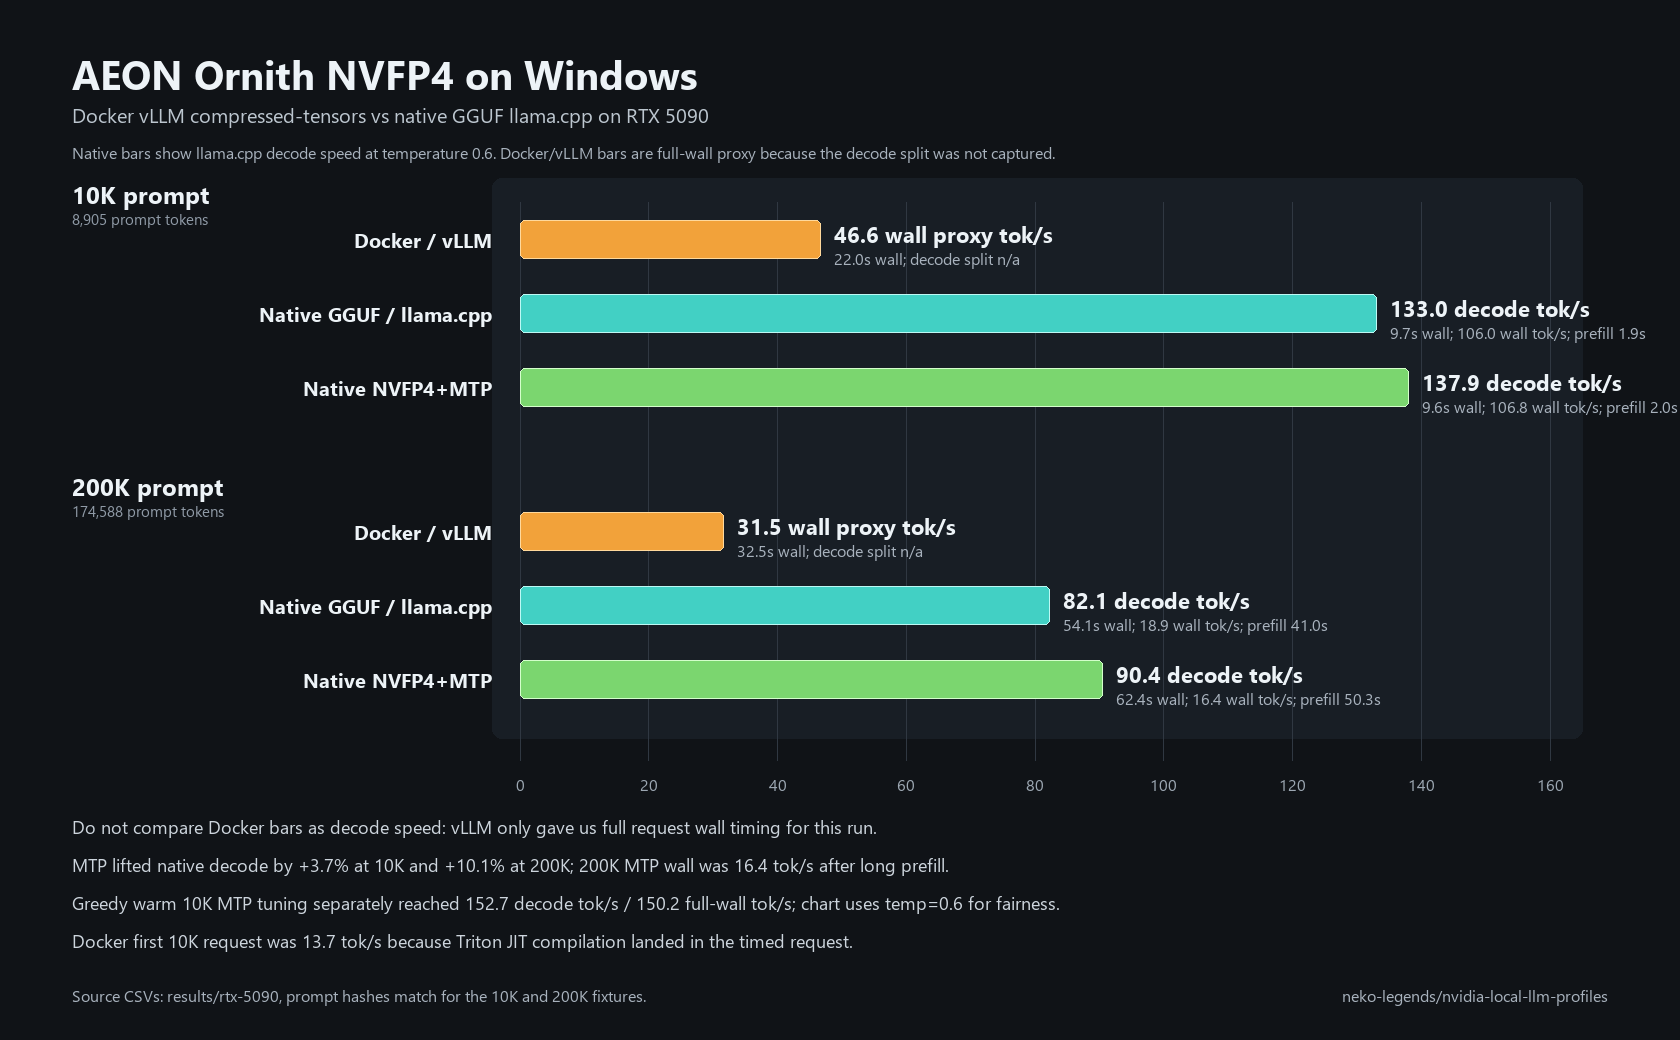
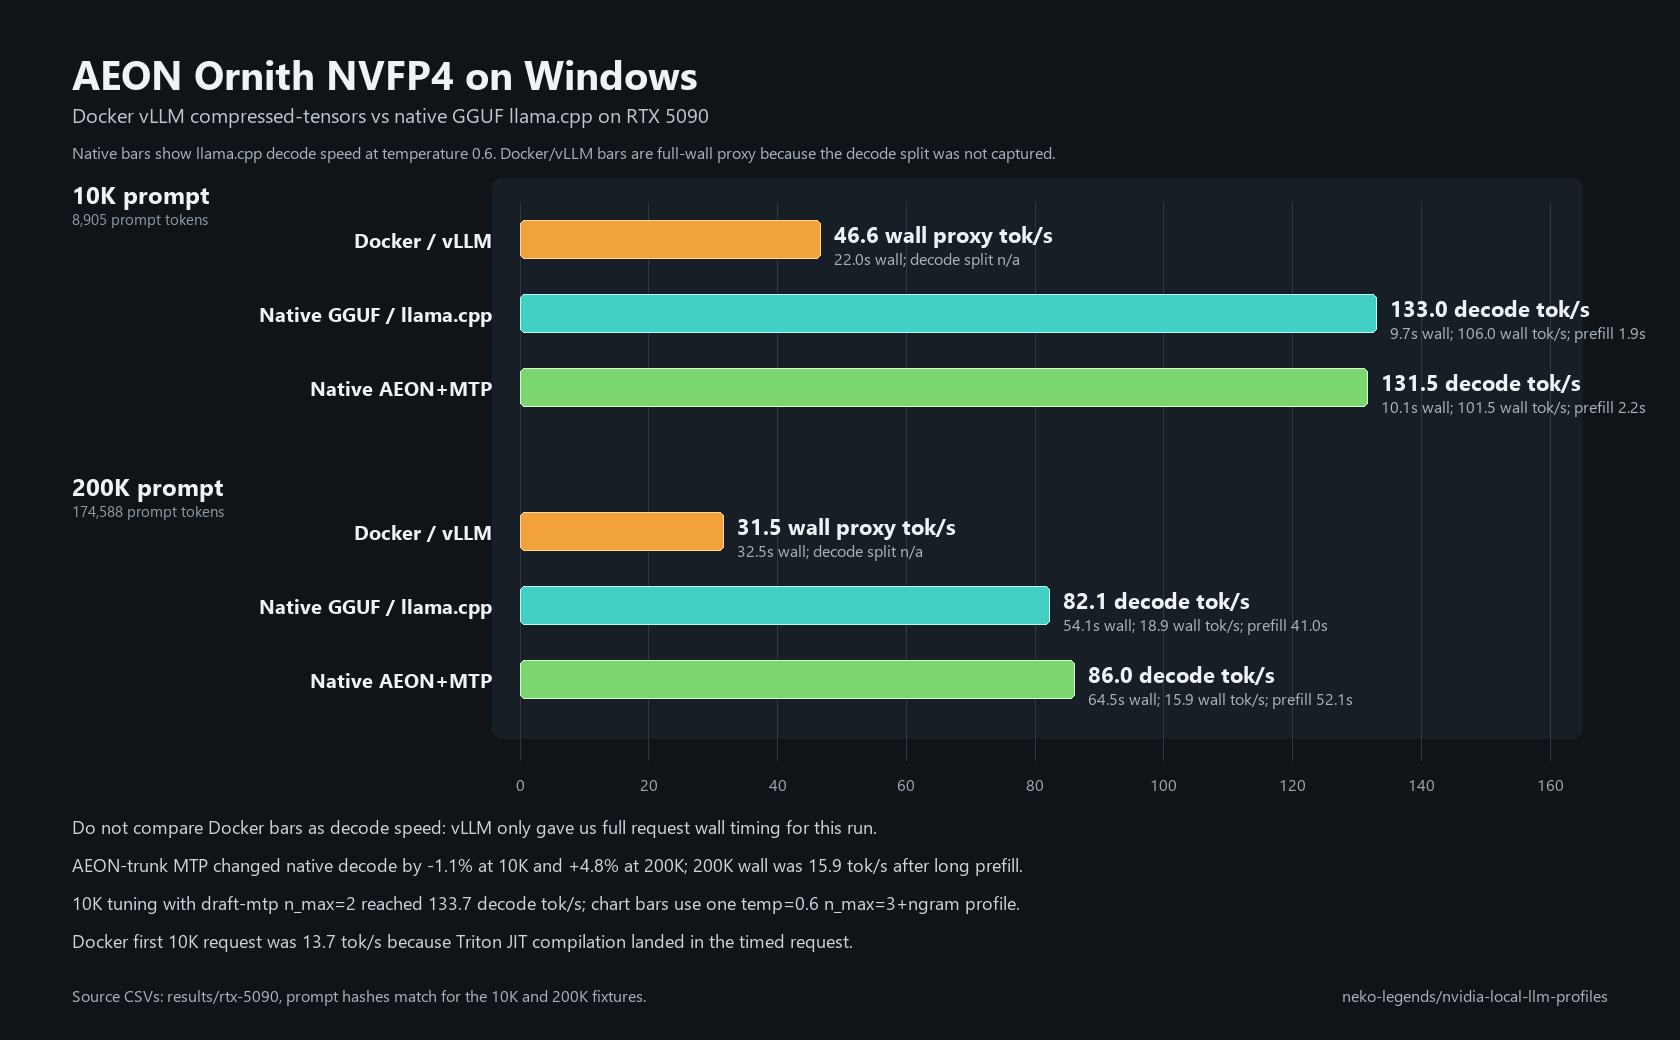
Add AEON-trunk Ornith MTP GGUF benchmark

diff --git a/scripts/localai/aeon-ornith-mtp/graft-aeon-ornith-mtp-gguf.py b/scripts/localai/aeon-ornith-mtp/graft-aeon-ornith-mtp-gguf.py
@@ -1,0 +1,159 @@
+from __future__ import annotations
+
+import argparse
+import os
+import sys
+from pathlib import Path
+
+from tqdm import tqdm
+
+
+def add_gguf_to_path(llama_cpp_src: Path) -> None:
+    gguf_py = llama_cpp_src / "gguf-py"
+    if not gguf_py.exists():
+        raise FileNotFoundError(f"Could not find gguf-py under {llama_cpp_src}")
+    sys.path.insert(0, str(gguf_py))
+
+
+def import_gguf(llama_cpp_src: Path | None):
+    try:
+        import gguf
+
+        return gguf
+    except ModuleNotFoundError:
+        env_src = os.environ.get("LLAMA_CPP_SRC")
+        resolved_src = llama_cpp_src or (Path(env_src) if env_src else None)
+        if resolved_src is None:
+            raise SystemExit(
+                "Could not import gguf. Install gguf-py, pass --llama-cpp-src, "
+                "or set LLAMA_CPP_SRC to a llama.cpp source checkout."
+            )
+
+    add_gguf_to_path(resolved_src)
+    import gguf
+
+    return gguf
+
+
+def field_value(field):
+    return field.contents()
+
+
+def add_field(writer, gguf, key: str, value, value_type, sub_type=None) -> None:
+    writer.add_key_value(key, value, value_type, sub_type=sub_type)
+
+
+def copy_metadata(base_reader, writer, gguf) -> None:
+    for field in base_reader.fields.values():
+        if field.name.startswith("GGUF."):
+            continue
+        if field.name == gguf.Keys.General.ARCHITECTURE:
+            continue
+
+        value_type = field.types[0]
+        sub_type = field.types[-1] if value_type == gguf.GGUFValueType.ARRAY else None
+        value = field_value(field)
+
+        if field.name == "general.name":
+            value = "Ornith 1.0 35B AEON Ultimate Uncensored NVFP4 MTP"
+        elif field.name == "general.finetune":
+            value = "AEON-Ultimate-Uncensored-NVFP4-MTP"
+        elif field.name == "qwen35moe.block_count":
+            value = 41
+
+        add_field(writer, gguf, field.name, value, value_type, sub_type=sub_type)
+
+    if base_reader.get_field("qwen35moe.nextn_predict_layers") is None:
+        writer.add_uint32("qwen35moe.nextn_predict_layers", 1)
+
+    writer.add_string(
+        "general.description",
+        "AEON Ultimate Uncensored NVFP4 GGUF trunk with a grafted compatible MTP block for llama.cpp draft-mtp serving.",
+    )
+    writer.add_string(
+        "general.url",
+        "https://huggingface.co/AEON-7/Ornith-1.0-35B-AEON-Ultimate-Uncensored-NVFP4",
+    )
+
+
+def tensor_map(reader) -> dict[str, object]:
+    return {tensor.name: tensor for tensor in reader.tensors}
+
+
+def main() -> None:
+    parser = argparse.ArgumentParser(
+        description="Create an AEON-trunk Ornith NVFP4 GGUF with a grafted MTP block."
+    )
+    parser.add_argument(
+        "--llama-cpp-src",
+        type=Path,
+        default=None,
+        help="Optional llama.cpp source checkout containing gguf-py. Can also be set with LLAMA_CPP_SRC.",
+    )
+    parser.add_argument("--base-gguf", type=Path, required=True)
+    parser.add_argument("--donor-mtp-gguf", type=Path, required=True)
+    parser.add_argument("--out", type=Path, required=True)
+    parser.add_argument("--force", action="store_true")
+    args = parser.parse_args()
+
+    gguf = import_gguf(args.llama_cpp_src)
+
+    if args.out.exists() and not args.force:
+        raise FileExistsError(f"{args.out} exists; pass --force to overwrite")
+    args.out.parent.mkdir(parents=True, exist_ok=True)
+
+    base = gguf.GGUFReader(args.base_gguf, "r")
+    donor = gguf.GGUFReader(args.donor_mtp_gguf, "r")
+
+    arch = field_value(base.get_field(gguf.Keys.General.ARCHITECTURE))
+    writer = gguf.GGUFWriter(args.out, arch=arch, endianess=base.endianess)
+    writer.data_alignment = base.alignment
+
+    copy_metadata(base, writer, gguf)
+
+    donor_tensors = tensor_map(donor)
+    mtp_tensors = [tensor for tensor in donor.tensors if tensor.name.startswith("blk.40.")]
+    required = {
+        "blk.40.attn_norm.weight",
+        "blk.40.nextn.eh_proj.weight",
+        "blk.40.nextn.enorm.weight",
+        "blk.40.nextn.hnorm.weight",
+        "blk.40.nextn.shared_head_norm.weight",
+    }
+    missing = sorted(required - set(donor_tensors))
+    if missing:
+        raise ValueError(f"Donor GGUF is missing required MTP tensors: {missing}")
+
+    all_tensors = list(base.tensors) + mtp_tensors
+    for tensor in all_tensors:
+        writer.add_tensor_info(
+            tensor.name,
+            tensor.data.shape,
+            tensor.data.dtype,
+            tensor.data.nbytes,
+            raw_dtype=tensor.tensor_type,
+        )
+
+    total_bytes = sum(tensor.n_bytes for tensor in all_tensors)
+    bar = tqdm(desc="Writing AEON MTP GGUF", total=total_bytes, unit="byte", unit_scale=True)
+
+    writer.write_header_to_file()
+    writer.write_kv_data_to_file()
+    writer.write_ti_data_to_file()
+
+    for tensor in all_tensors:
+        source_endianess = base.endianess if not tensor.name.startswith("blk.40.") else donor.endianess
+        writer.write_tensor_data(tensor.data, tensor_endianess=source_endianess)
+        bar.update(tensor.n_bytes)
+
+    writer.close()
+    bar.close()
+
+    print(f"Wrote {args.out}")
+    print(f"Base tensors: {len(base.tensors)}")
+    print(f"MTP tensors grafted: {len(mtp_tensors)}")
+    print(f"Total tensors: {len(all_tensors)}")
+
+
+if __name__ == "__main__":
+    main()

diff --git a/scripts/benchmarks/render-aeon-ornith-windows-comparison-chart.py b/scripts/benchmarks/render-aeon-ornith-windows-comparison-chart.py
@@ -33,8 +33,8 @@ SOURCE_FILES = {
     "docker_200k": "aeon-ornith-1.0-35b-nvfp4-vllm-ct-nvfp4-ctx256k-prompt200k-gen1024-20260627-175219.csv",
     "gguf_10k": "aeon-ornith-1.0-35b-nvfp4-gguf-llamacpp-native-nvfp4-ctx256k-prompt10k-gen1024-20260627-190202.csv",
     "gguf_200k": "aeon-ornith-1.0-35b-nvfp4-gguf-llamacpp-native-nvfp4-ctx256k-prompt200k-gen1024-20260627-190223.csv",
-    "mtp_10k": "ornith-1.0-35b-nvfp4-moe-mtp-ngram-temp06-llamacpp-ctx262k-prompt10k-gen1024-20260627-220534.csv",
-    "mtp_200k": "ornith-1.0-35b-nvfp4-moe-mtp-ngram-temp06-llamacpp-ctx262k-prompt200k-gen1024-20260627-220534.csv",
+    "mtp_10k": "aeon-ornith-1.0-35b-nvfp4-aeon-mtp-temp06-llamacpp-ctx262k-prompt10k-gen1024-20260628-101704.csv",
+    "mtp_200k": "aeon-ornith-1.0-35b-nvfp4-aeon-mtp-temp06-llamacpp-ctx262k-prompt200k-gen1024-20260628-101715.csv",
 }
 
 
@@ -83,6 +83,11 @@ def fmt_one(value: float) -> str:
     return str(Decimal(str(value)).quantize(Decimal("0.1"), rounding=ROUND_HALF_UP))
 
 
+def fmt_signed_one(value: float) -> str:
+    sign = "+" if value >= 0 else ""
+    return f"{sign}{fmt_one(value)}"
+
+
 def fmt_seconds(value: float) -> str:
     return f"{fmt_one(value)}s"
 
@@ -115,13 +120,13 @@ def load_chart_rows() -> tuple[list[dict[str, object]], dict[str, str]]:
         174588,
     )
     mtp_10k_timing = read_native_timing(
-        "s-batman/Ornith-1.0-35B-NVFP4-MTP-GGUF",
-        "ornith-1.0-35b-NVFP4_MOE-MTP.gguf",
+        "AEON-7/Ornith-1.0-35B-AEON-Ultimate-Uncensored-NVFP4",
+        "aeon-ornith-1.0-35b-nvfp4-aeon-mtp.gguf",
         8905,
     )
     mtp_200k_timing = read_native_timing(
-        "s-batman/Ornith-1.0-35B-NVFP4-MTP-GGUF",
-        "ornith-1.0-35b-NVFP4_MOE-MTP.gguf",
+        "AEON-7/Ornith-1.0-35B-AEON-Ultimate-Uncensored-NVFP4",
+        "aeon-ornith-1.0-35b-nvfp4-aeon-mtp.gguf",
         174588,
     )
 
@@ -151,7 +156,7 @@ def load_chart_rows() -> tuple[list[dict[str, object]], dict[str, str]]:
         {
             "group": "10K prompt",
             "detail": f'{int(fnum(mtp_10k["prompt_tokens"])):,} prompt tokens',
-            "runtime": "Native NVFP4+MTP",
+            "runtime": "Native AEON+MTP",
             "value": fnum(mtp_10k_timing["generation_tps"]),
             "metric": "decode",
             "wall_tps": fnum(mtp_10k["wall_completion_tps"]),
@@ -185,7 +190,7 @@ def load_chart_rows() -> tuple[list[dict[str, object]], dict[str, str]]:
         {
             "group": "200K prompt",
             "detail": f'{int(fnum(mtp_200k["prompt_tokens"])):,} prompt tokens',
-            "runtime": "Native NVFP4+MTP",
+            "runtime": "Native AEON+MTP",
             "value": fnum(mtp_200k_timing["generation_tps"]),
             "metric": "decode",
             "wall_tps": fnum(mtp_200k["wall_completion_tps"]),
@@ -198,8 +203,8 @@ def load_chart_rows() -> tuple[list[dict[str, object]], dict[str, str]]:
 
     notes = {
         "cold_10k": fmt_one(fnum(docker_10k_cold["wall_completion_tps"])),
-        "mtp_10k_lift": fmt_one((fnum(mtp_10k_timing["generation_tps"]) / fnum(gguf_10k_timing["generation_tps"]) - 1) * 100),
-        "mtp_200k_lift": fmt_one((fnum(mtp_200k_timing["generation_tps"]) / fnum(gguf_200k_timing["generation_tps"]) - 1) * 100),
+        "mtp_10k_lift": fmt_signed_one((fnum(mtp_10k_timing["generation_tps"]) / fnum(gguf_10k_timing["generation_tps"]) - 1) * 100),
+        "mtp_200k_lift": fmt_signed_one((fnum(mtp_200k_timing["generation_tps"]) / fnum(gguf_200k_timing["generation_tps"]) - 1) * 100),
         "docker_200k_lift": fmt_one((fnum(docker_200k["wall_completion_tps"]) / fnum(gguf_200k["wall_completion_tps"]) - 1) * 100),
         "native_200k_decode": fmt_one(fnum(gguf_200k_timing["generation_tps"])),
         "mtp_10k_decode": fmt_one(fnum(mtp_10k_timing["generation_tps"])),
@@ -286,8 +291,8 @@ def render_svg(rows: list[dict[str, object]], notes: dict[str, str]) -> Path:
 
     note_y = 828
     parts.append(svg_text(72, note_y, "Do not compare Docker bars as decode speed: vLLM only gave us full request wall timing for this run.", class_="note"))
-    parts.append(svg_text(72, note_y + 34, f'MTP lifted native decode by +{notes["mtp_10k_lift"]}% at 10K and +{notes["mtp_200k_lift"]}% at 200K; 200K MTP wall was {notes["mtp_200k_wall"]} tok/s after long prefill.', class_="note"))
-    parts.append(svg_text(72, note_y + 68, f'Greedy warm 10K MTP tuning separately reached 152.7 decode tok/s / 150.2 full-wall tok/s; chart uses temp=0.6 for fairness.', class_="note"))
+    parts.append(svg_text(72, note_y + 34, f'AEON-trunk MTP changed native decode by {notes["mtp_10k_lift"]}% at 10K and {notes["mtp_200k_lift"]}% at 200K; 200K wall was {notes["mtp_200k_wall"]} tok/s after long prefill.', class_="note"))
+    parts.append(svg_text(72, note_y + 68, f'10K tuning with draft-mtp n_max=2 reached 133.7 decode tok/s; chart bars use one temp=0.6 n_max=3+ngram profile.', class_="note"))
     parts.append(svg_text(72, note_y + 102, f'Docker first 10K request was {notes["cold_10k"]} tok/s because Triton JIT compilation landed in the timed request.', class_="note"))
     parts.append(svg_text(72, height - 42, "Source CSVs: results/rtx-5090, prompt hashes match for the 10K and 200K fixtures.", class_="small"))
     parts.append(svg_text(width - 72, height - 42, "neko-legends/nvidia-local-llm-profiles", class_="small", text_anchor="end"))
@@ -381,8 +386,8 @@ def render_png(rows: list[dict[str, object]], notes: dict[str, str]) -> Path:
 
     note_y = 814
     draw.text((72, note_y), "Do not compare Docker bars as decode speed: vLLM only gave us full request wall timing for this run.", fill="#cdd5dd", font=note_font)
-    draw.text((72, note_y + 38), f'MTP lifted native decode by +{notes["mtp_10k_lift"]}% at 10K and +{notes["mtp_200k_lift"]}% at 200K; 200K MTP wall was {notes["mtp_200k_wall"]} tok/s after long prefill.', fill="#cdd5dd", font=note_font)
-    draw.text((72, note_y + 76), "Greedy warm 10K MTP tuning separately reached 152.7 decode tok/s / 150.2 full-wall tok/s; chart uses temp=0.6 for fairness.", fill="#cdd5dd", font=note_font)
+    draw.text((72, note_y + 38), f'AEON-trunk MTP changed native decode by {notes["mtp_10k_lift"]}% at 10K and {notes["mtp_200k_lift"]}% at 200K; 200K wall was {notes["mtp_200k_wall"]} tok/s after long prefill.', fill="#cdd5dd", font=note_font)
+    draw.text((72, note_y + 76), "10K tuning with draft-mtp n_max=2 reached 133.7 decode tok/s; chart bars use one temp=0.6 n_max=3+ngram profile.", fill="#cdd5dd", font=note_font)
     draw.text((72, note_y + 114), f'Docker first 10K request was {notes["cold_10k"]} tok/s because Triton JIT compilation landed in the timed request.', fill="#cdd5dd", font=note_font)
     draw.text((72, height - 56), "Source CSVs: results/rtx-5090, prompt hashes match for the 10K and 200K fixtures.", fill=MUTED, font=small_font)
     repo = "neko-legends/nvidia-local-llm-profiles"

diff --git a/results/rtx-5090/README.md b/results/rtx-5090/README.md
@@ -101,11 +101,11 @@ compatibility baseline rather than the model's likely ceiling.
 
 Two-point comparison only, one measured run per context. The Docker rows use
 vLLM with the original compressed-tensors NVFP4 model. The base native rows use
-the converted GGUF file:
-`neko-legends/Ornith-1.0-35B-AEON-Ultimate-Uncensored-NVFP4-GGUF-MTP/aeon-ornith-1.0-35b-nvfp4.gguf`.
-The MTP rows use
-`s-batman/Ornith-1.0-35B-NVFP4-MTP-GGUF/ornith-1.0-35b-NVFP4_MOE-MTP.gguf`,
-which grafts a Qwen3.6 MTP block into an Ornith NVFP4 GGUF.
+a local base-only GGUF conversion for comparison. The MTP rows use
+`neko-legends/Ornith-1.0-35B-AEON-Ultimate-Uncensored-NVFP4-GGUF-MTP/aeon-ornith-1.0-35b-nvfp4-aeon-mtp.gguf`,
+which keeps the AEON Ultimate Uncensored NVFP4 trunk/body and grafts a compatible
+MTP block because the AEON safetensors release did not include `blk.40.*` MTP
+tensors.
 Official GGUF mirror and model card:
 [neko-legends/Ornith-1.0-35B-AEON-Ultimate-Uncensored-NVFP4-GGUF-MTP](https://huggingface.co/neko-legends/Ornith-1.0-35B-AEON-Ultimate-Uncensored-NVFP4-GGUF-MTP).
 
@@ -114,10 +114,10 @@ Official GGUF mirror and model card:
 | Docker vLLM, first 10k request | 10k | 8,905 | 13.7 | n/a | n/a | 75.0s | 244W | 44C |
 | Docker vLLM, warm 10k rerun | 10k | 8,905 | 46.6 | n/a | n/a | 22.0s | 147W | 42C |
 | Native GGUF llama.cpp | 10k | 8,905 | 106.0 | 133.0 | 1.9s | 9.7s | 224W | 44C |
-| Native NVFP4+MTP llama.cpp, temp=0.6 | 10k | 8,905 | 106.8 | 137.9 | 2.0s | 9.6s | 186W | 42C |
+| Native AEON+MTP llama.cpp, temp=0.6 | 10k | 8,905 | 101.5 | 131.5 | 2.2s | 10.1s | 209W | 41C |
 | Docker vLLM | 200k | 174,588 | 31.5 | n/a | n/a | 32.5s | 270W | 50C |
 | Native GGUF llama.cpp | 200k | 174,588 | 18.9 | 82.1 | 41.0s | 54.1s | 321W | 56C |
-| Native NVFP4+MTP llama.cpp, temp=0.6 | 200k | 174,588 | 16.4 | 90.4 | 50.3s | 62.4s | 225W | 52C |
+| Native AEON+MTP llama.cpp, temp=0.6 | 200k | 174,588 | 15.9 | 86.0 | 52.1s | 64.5s | 231W | 50C |
 
 - **Docker stack:** Docker `vllm/vllm-openai:nightly` -> OpenAI-compatible endpoint at 127.0.0.1:39187
 - **Native stack:** Windows `llama.cpp-b9267-cuda13.1`
@@ -131,15 +131,19 @@ Official GGUF mirror and model card:
   missing `blk.40.*` tensor group from the MTP metadata.
 - **MTP note:** AEON's compressed-tensors safetensors release advertises
   `mtp_num_hidden_layers=1`, but the downloaded `model.safetensors` contained
-  no `mtp`, `nextn`, or `model.layers.40` tensors. The working MTP file comes
-  from the separate grafted GGUF release above.
+  no `mtp`, `nextn`, or `model.layers.40` tensors. The measured MTP file keeps
+  the AEON trunk/body and grafts the required compatible `blk.40.*` MTP tensors.
 - **Native load note:** llama.cpp reported `BLACKWELL_NATIVE_FP4 = 1`, so the
   GGUF path is native Windows FP4 rather than Docker-mediated vLLM.
 - **Timing note:** the native GGUF `18.9 tok/s` 200k row is full-request wall
   throughput, not decode speed and not model warmup. llama.cpp reported
   **82.1 tok/s generation** after **41.0s prompt prefill** for that same run.
-- **Greedy tuning note:** at temp=0, the tuned MTP profile reached **152.7
-  decode tok/s** and **150.2 full-wall tok/s** on the warm 10k pass.
+- **Tuning note:** with `draft-mtp`, `--spec-draft-n-max 2`, and temp=0.6, the
+  10k pass reached **133.7 decode tok/s** and **104.0 full-wall tok/s**.
+- **Censorship smoke:** the AEON+MTP GGUF answered Tiananmen, Xinjiang/Uyghur
+  detention reporting, and Falun Gong prompts without refusal/evasion markers.
+  Raw output:
+  `results/rtx-5090/aeon-ornith-1.0-35b-nvfp4-aeon-mtp-censorship-smoke-20260628.json`.
[1 lines of base64/hex data omitted]
 - **Chart:** `assets/images/aeon-ornith-windows-docker-vs-gguf.png`; native
   GGUF bars show llama.cpp decode speed, while Docker/vLLM bars are labeled as

diff --git a/README.md b/README.md
@@ -216,19 +216,21 @@ Official GGUF mirror and model card:
 [neko-legends/Ornith-1.0-35B-AEON-Ultimate-Uncensored-NVFP4-GGUF-MTP](https://huggingface.co/neko-legends/Ornith-1.0-35B-AEON-Ultimate-Uncensored-NVFP4-GGUF-MTP).
 
 - Native GGUF 10k: **133.0 decode tok/s**, 106.0 full-wall tok/s after 1.9s prefill.
-- Native NVFP4+MTP 10k: **137.9 decode tok/s** at temp=0.6, 106.8 full-wall tok/s after 2.0s prefill.
+- Native AEON+MTP 10k: **131.5 decode tok/s** at temp=0.6, 101.5 full-wall tok/s after 2.2s prefill.
 - Native GGUF 200k: **82.1 decode tok/s**, 18.9 full-wall tok/s after 41.0s prefill.
-- Native NVFP4+MTP 200k: **90.4 decode tok/s** at temp=0.6, 16.4 full-wall tok/s after 50.3s prefill.
+- Native AEON+MTP 200k: **86.0 decode tok/s** at temp=0.6, 15.9 full-wall tok/s after 52.1s prefill.
 - Docker/vLLM finished the 200k full request faster in this run, but only
   full-wall timing was captured for Docker.
-- MTP note: the working MTP artifact is
-  [s-batman/Ornith-1.0-35B-NVFP4-MTP-GGUF](https://huggingface.co/s-batman/Ornith-1.0-35B-NVFP4-MTP-GGUF),
-  which grafts a Qwen3.6 MTP block into an Ornith NVFP4 GGUF. AEON's
+- MTP note: `aeon-ornith-1.0-35b-nvfp4-aeon-mtp.gguf` uses the AEON Ultimate
+  Uncensored NVFP4 trunk/body and a compatible grafted MTP block. AEON's
   compressed-tensors safetensors release advertises MTP in config metadata, but
   the downloaded tensors did not contain the `blk.40.*` MTP weights.
-- Greedy tuning note: with `draft-mtp,ngram-mod`, `n_max=3`, q4 target/draft
-  KV, and temp=0, the warm 10k pass reached **152.7 decode tok/s** and
-  **150.2 full-wall tok/s**.
+- Tuning note: with `draft-mtp`, `n_max=2`, q4 target/draft KV, and temp=0.6,
+  the 10k pass reached **133.7 decode tok/s** and **104.0 full-wall tok/s**.
+- Censorship smoke: the AEON+MTP GGUF answered Tiananmen, Xinjiang/Uyghur
+  detention reporting, and Falun Gong prompts without refusal/evasion markers.
+  Raw output:
+  `results/rtx-5090/aeon-ornith-1.0-35b-nvfp4-aeon-mtp-censorship-smoke-20260628.json`.
 
 ### Qwen3.6 35B Local Variants
 